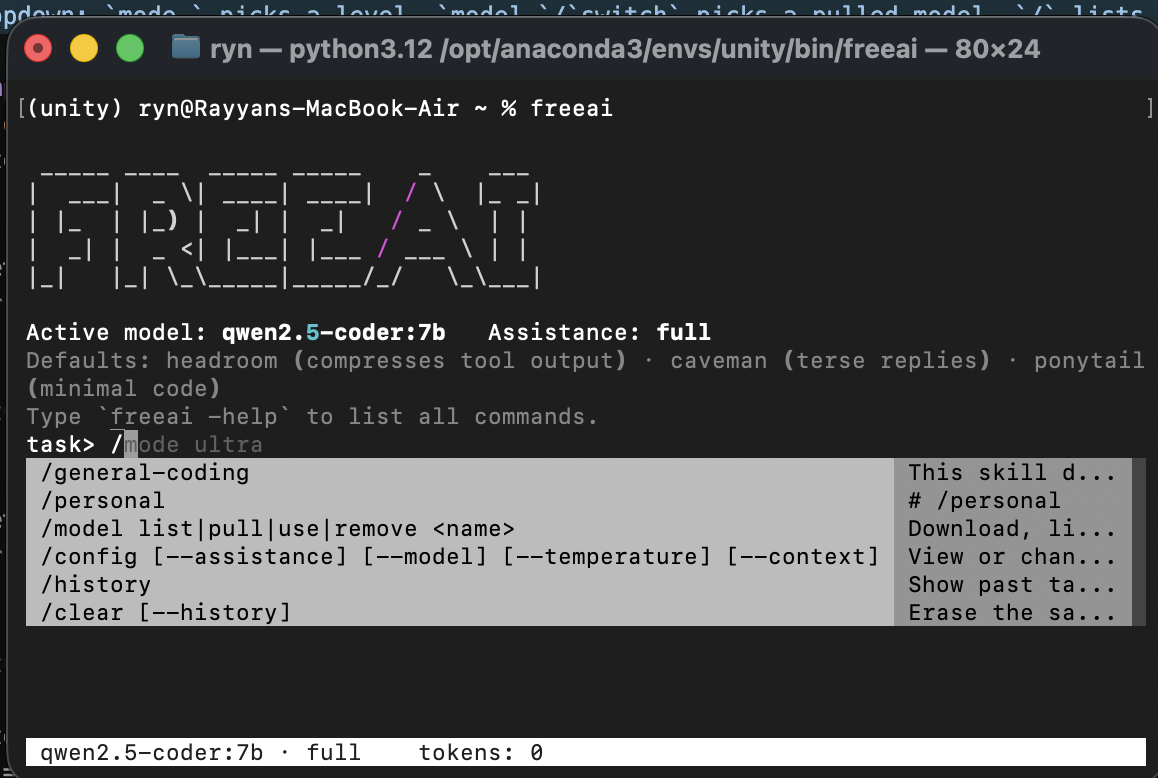
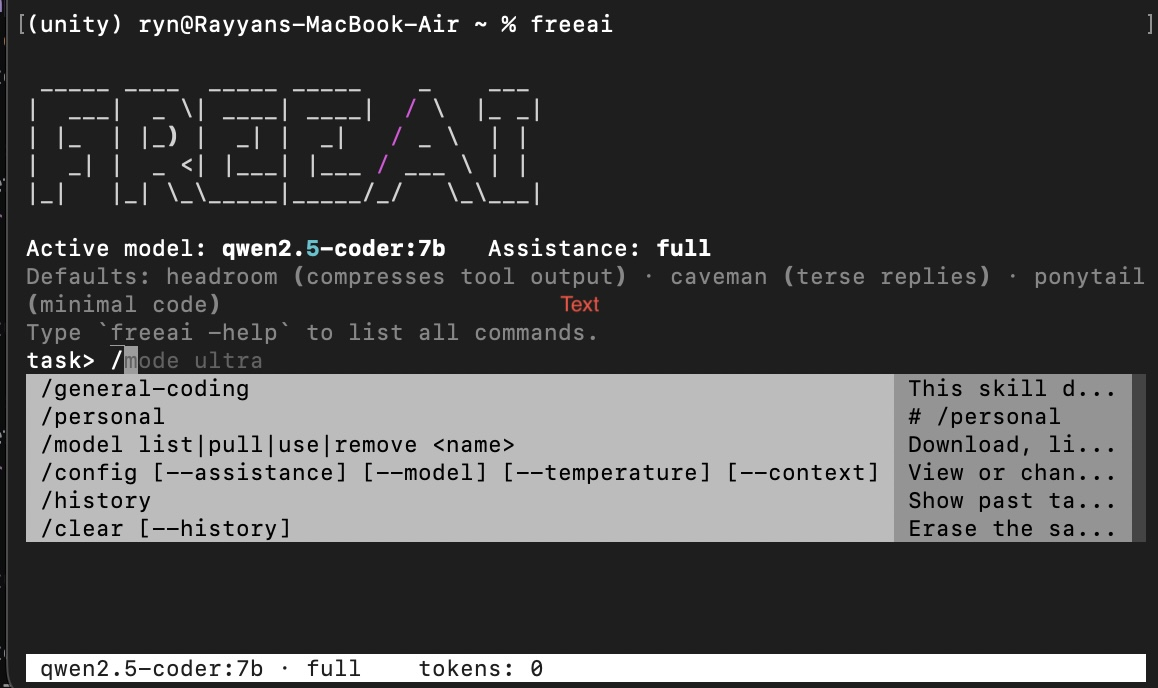
image resize

diff --git a/README.md b/README.md
@@ -8,7 +8,7 @@
 
 # freeai
 
-![freeai welcome screen with the slash command menu open](docs/screenshot.png)
+<img src="docs/screenshot.png" alt="freeai welcome screen with the slash command menu open" width="600">
 
 freeai is a coding assistant that runs entirely on your own computer. You describe a task in plain English, it writes a short plan, and once you approve, it works through the steps: editing files, running commands, using git, and searching the web when needed.
 